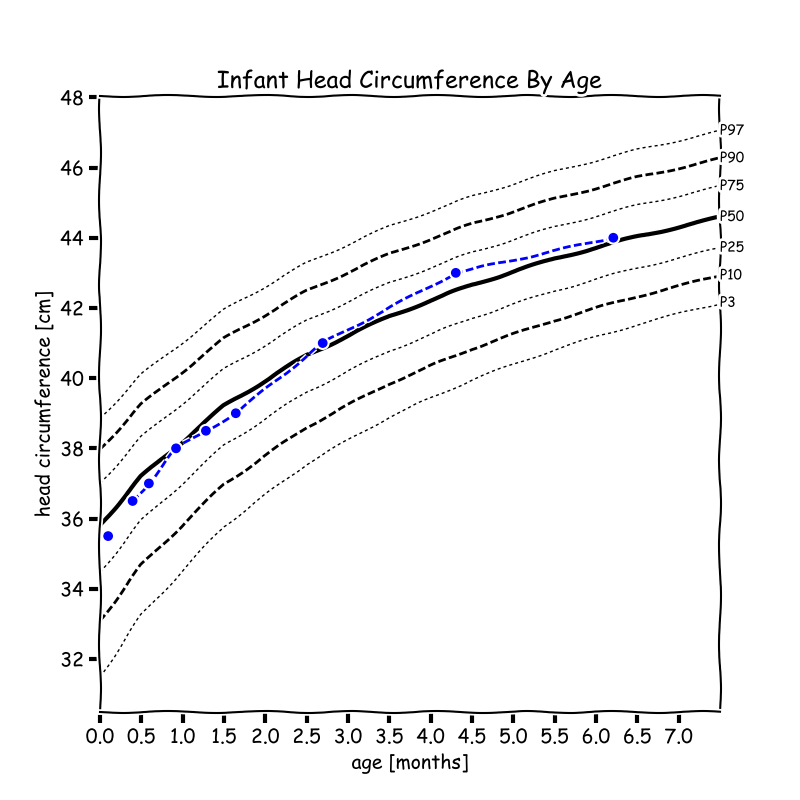
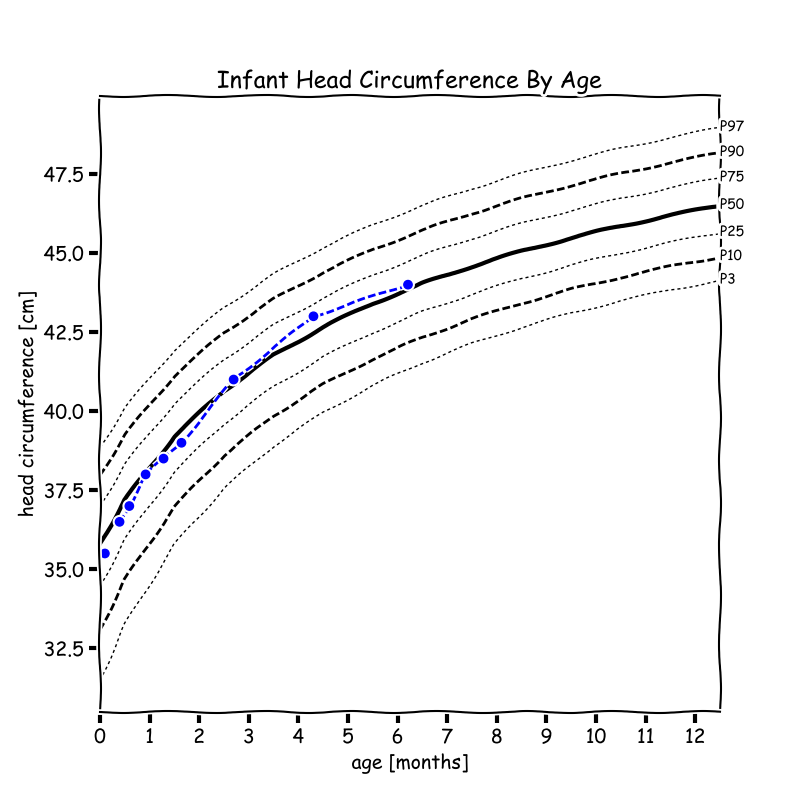
updates

diff --git a/growth_charts.py b/growth_charts.py
@@ -20,8 +20,8 @@ for who_dict_key in who_data.who_infant_df_dict.keys():
             x_tick_interval = 3
         else:
             child_data_df = child_data.df
-            x_limit = 7.5
-            x_tick_interval = 0.5
+            x_limit = 12.5
+            x_tick_interval = 1
         plot_name = who_df_key
         plot = Plot(df=child_data_df,
                     df_column=who_dict_key,
